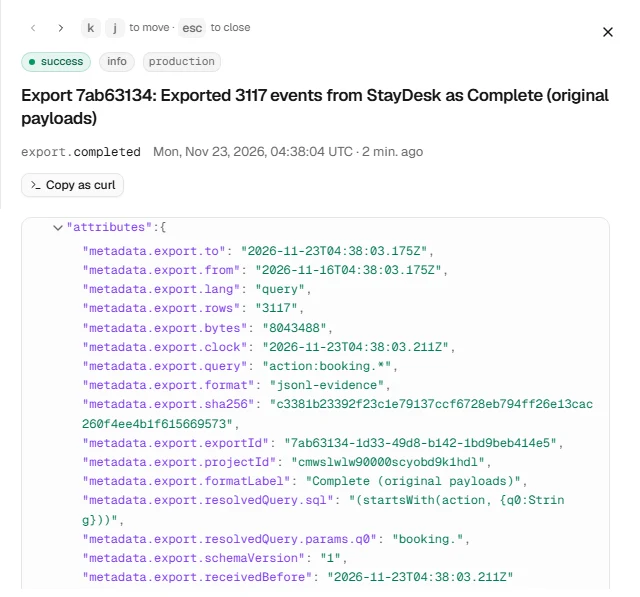
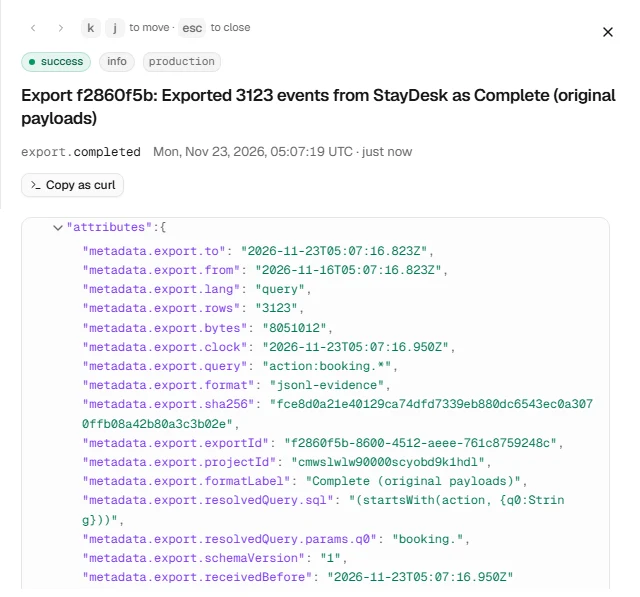
fix(web): both themes show this run's export record; the B items from #291
- capture-media.mjs reads the run's export id from the download's filename and
  opens that export's own record in both themes (it can land a moment after
  the download); the light and dark images showed two different real exports.
  Recaptured: export f2860f5b, 3,123 rows, all four variants.
- check-code-keyboard.mjs reads the ring colour's alpha by painting it on a
  cleared 1x1 canvas, so zero alpha fails in any syntax (oklab, oklch).
- landing-visuals.test.ts checks the "Full size" hint per frame: exactly one in
  each zoomable frame's bar, none elsewhere.
- media-manifest: the export record's new sizes (640x597, phone 390x657).

diff --git a/apps/web/src/content/landing-visuals.test.ts b/apps/web/src/content/landing-visuals.test.ts
@@ -58,10 +58,16 @@ describe('landing visuals', () => {
   it('a capture that opens full size shows a visible hint beside it, and its link never overrides the theme switch', async () => {
     const [page] = await renderPages(['/']);
     const html = page?.html ?? '';
-    // The hint sits in the window bar of each zoomable frame (outside the image): one per zoomable capture.
-    const zoomable = (html.match(/aria-label="Open the image full size: /g) ?? []).length;
-    expect(zoomable).toBeGreaterThan(0);
-    expect((html.match(/>Full size</g) ?? []).length).toBeGreaterThan(0);
+    // The hint sits in the window bar of each zoomable frame (outside the image): exactly one per zoomable frame, and
+    // none on a frame that does not open full size. Frames are counted, not links: a themed frame has two links.
+    const frames = [...html.matchAll(/<div class="frame">([\s\S]*?)<\/figure>/g)].map(([, inner]) => inner ?? '');
+    const zoomable = frames.filter((frame) => frame.includes('aria-label="Open the image full size: '));
+    expect(zoomable.length).toBeGreaterThanOrEqual(4);
+    for (const frame of frames) {
+      const bar = frame.slice(0, frame.indexOf('class="screenshot"'));
+      const hints = (bar.match(/>Full size</g) ?? []).length;
+      expect(hints, bar.slice(0, 160)).toBe(zoomable.includes(frame) ? 1 : 0);
+    }
     // `.screenshot a` must not set display: it would outrank `.theme-dark { display: none }` and show both themes.
     const css = readFileSync(fileURLToPath(new URL('../styles.css', import.meta.url)), 'utf8');
     const rule = /\.screenshot a \{([^}]*)\}/.exec(css)?.[1] ?? '';

diff --git a/apps/web/src/lib/media-manifest.ts b/apps/web/src/lib/media-manifest.ts
@@ -146,9 +146,9 @@ export const screenshots: ScreenshotEntry[] = [
     light: `${C}/export-record-light.webp`,
     dark: `${C}/export-record-dark.webp`,
     width: 640,
-    height: 603,
-    phone: { light: `${C}/phone-export-record-light.webp`, dark: `${C}/phone-export-record-dark.webp`, width: 390, height: 663 },
-    alt: "A completed export's record in Workspace activity: 3,117 events from StayDesk as Complete (original payloads), with its period, query action:booking.*, row count, size in bytes, fixed query clock, format and SHA-256.",
+    height: 597,
+    phone: { light: `${C}/phone-export-record-light.webp`, dark: `${C}/phone-export-record-dark.webp`, width: 390, height: 657 },
+    alt: "A completed export's record in Workspace activity: 3,123 events from StayDesk as Complete (original payloads), with its period, query action:booking.*, row count, size in bytes, fixed query clock, format and SHA-256.",
   },
 ];
 
